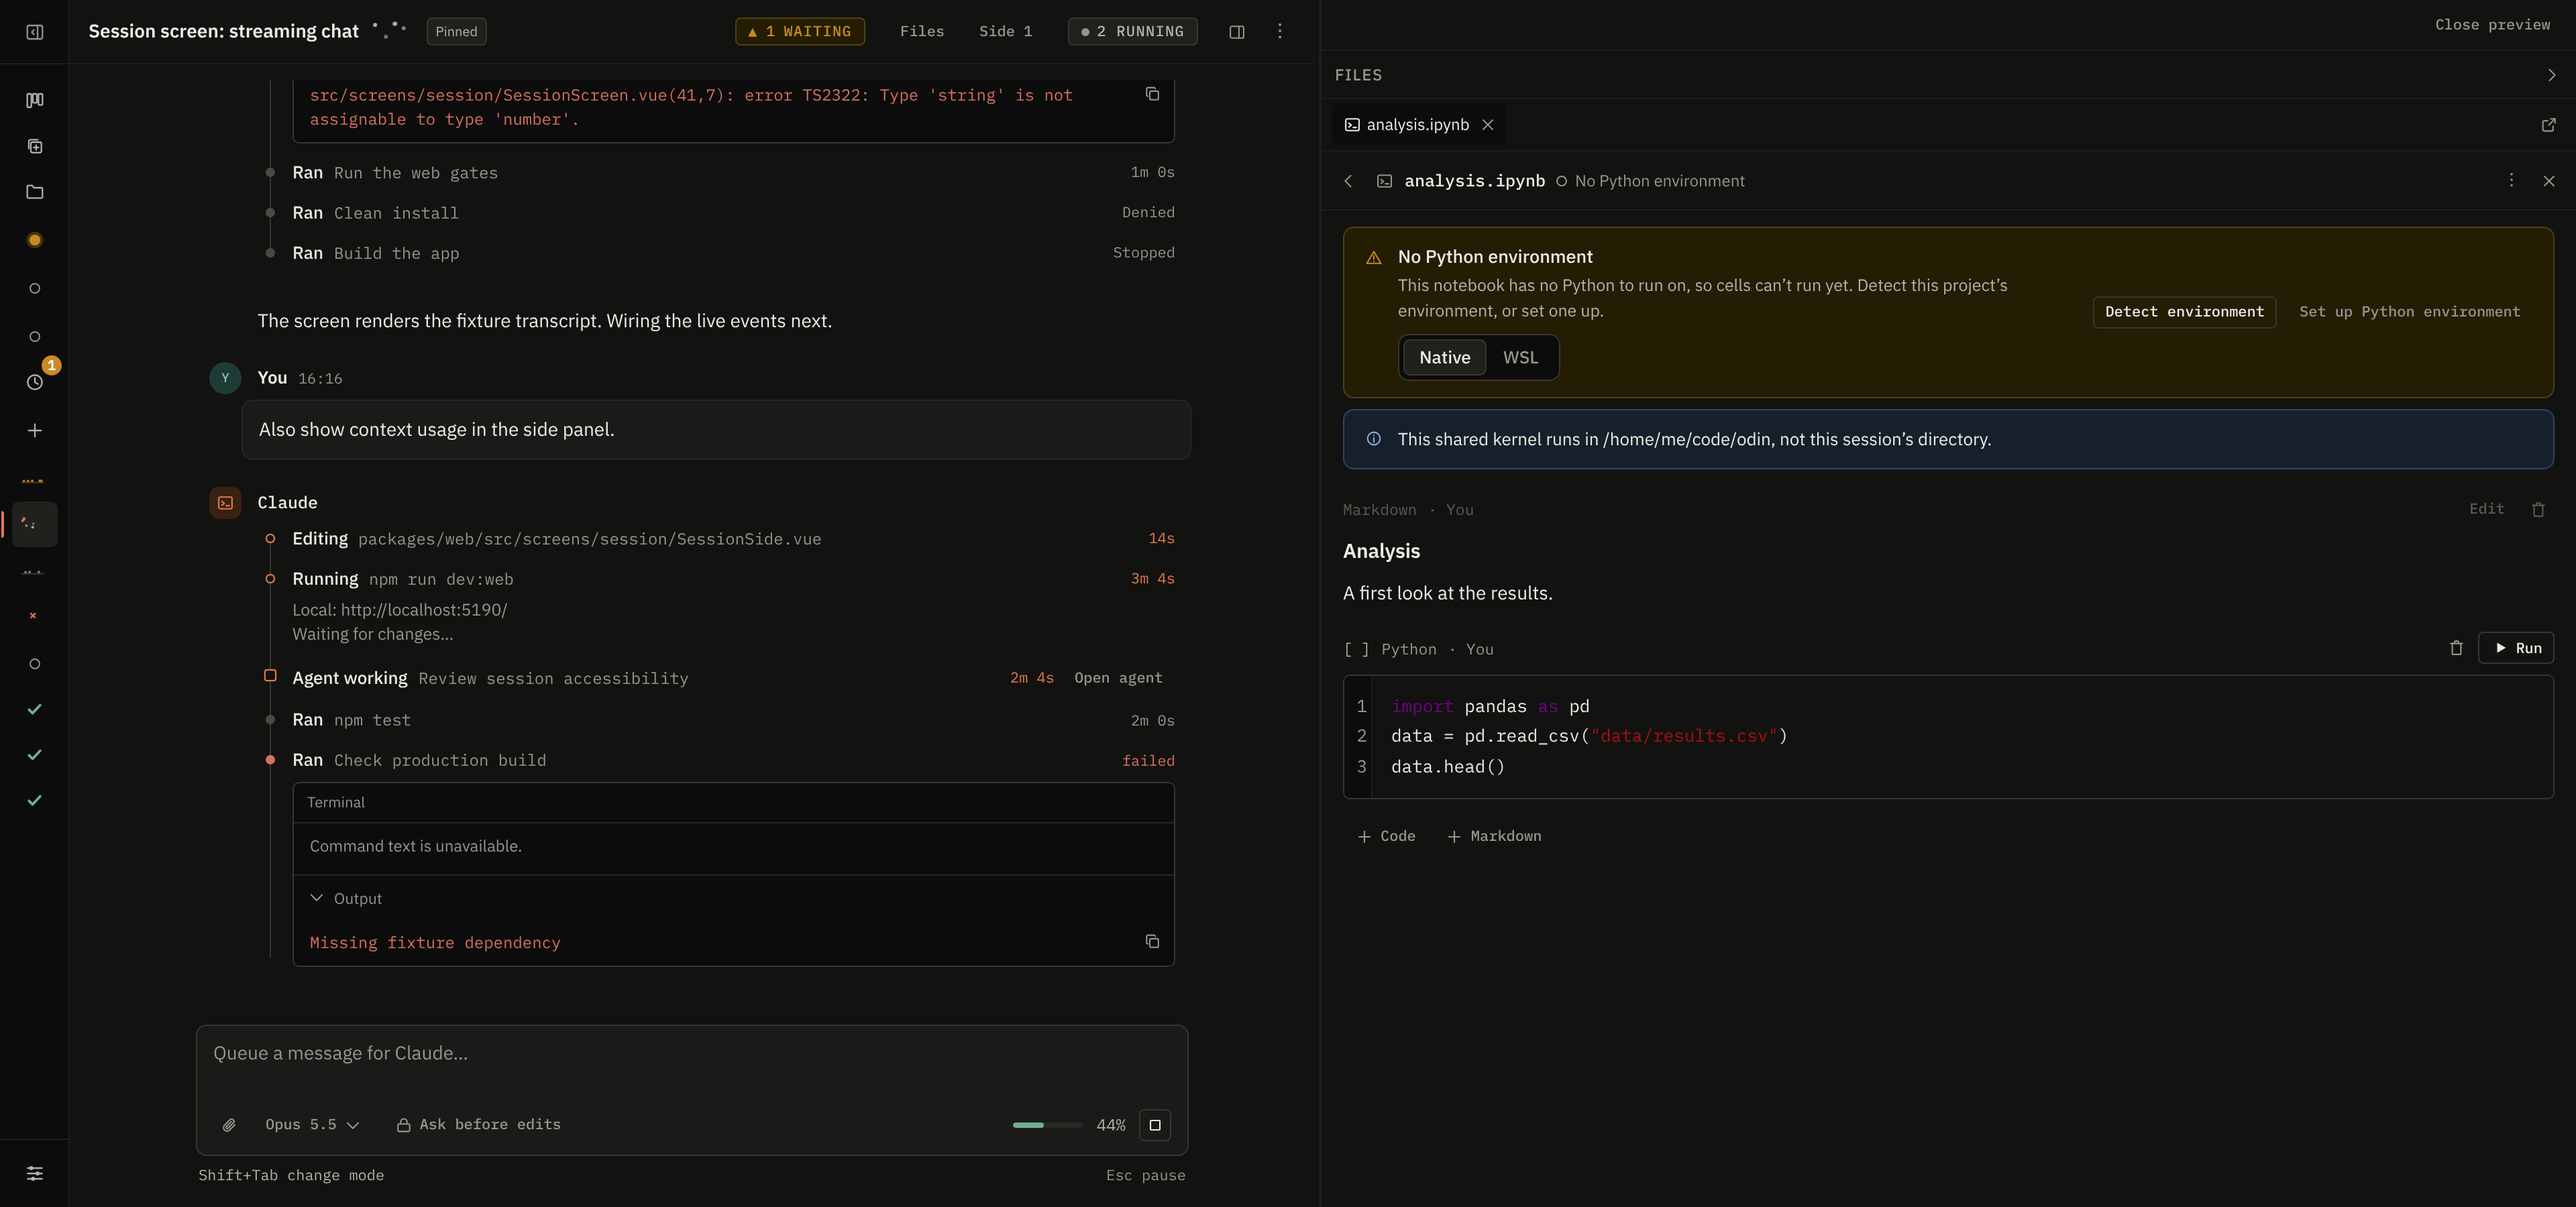
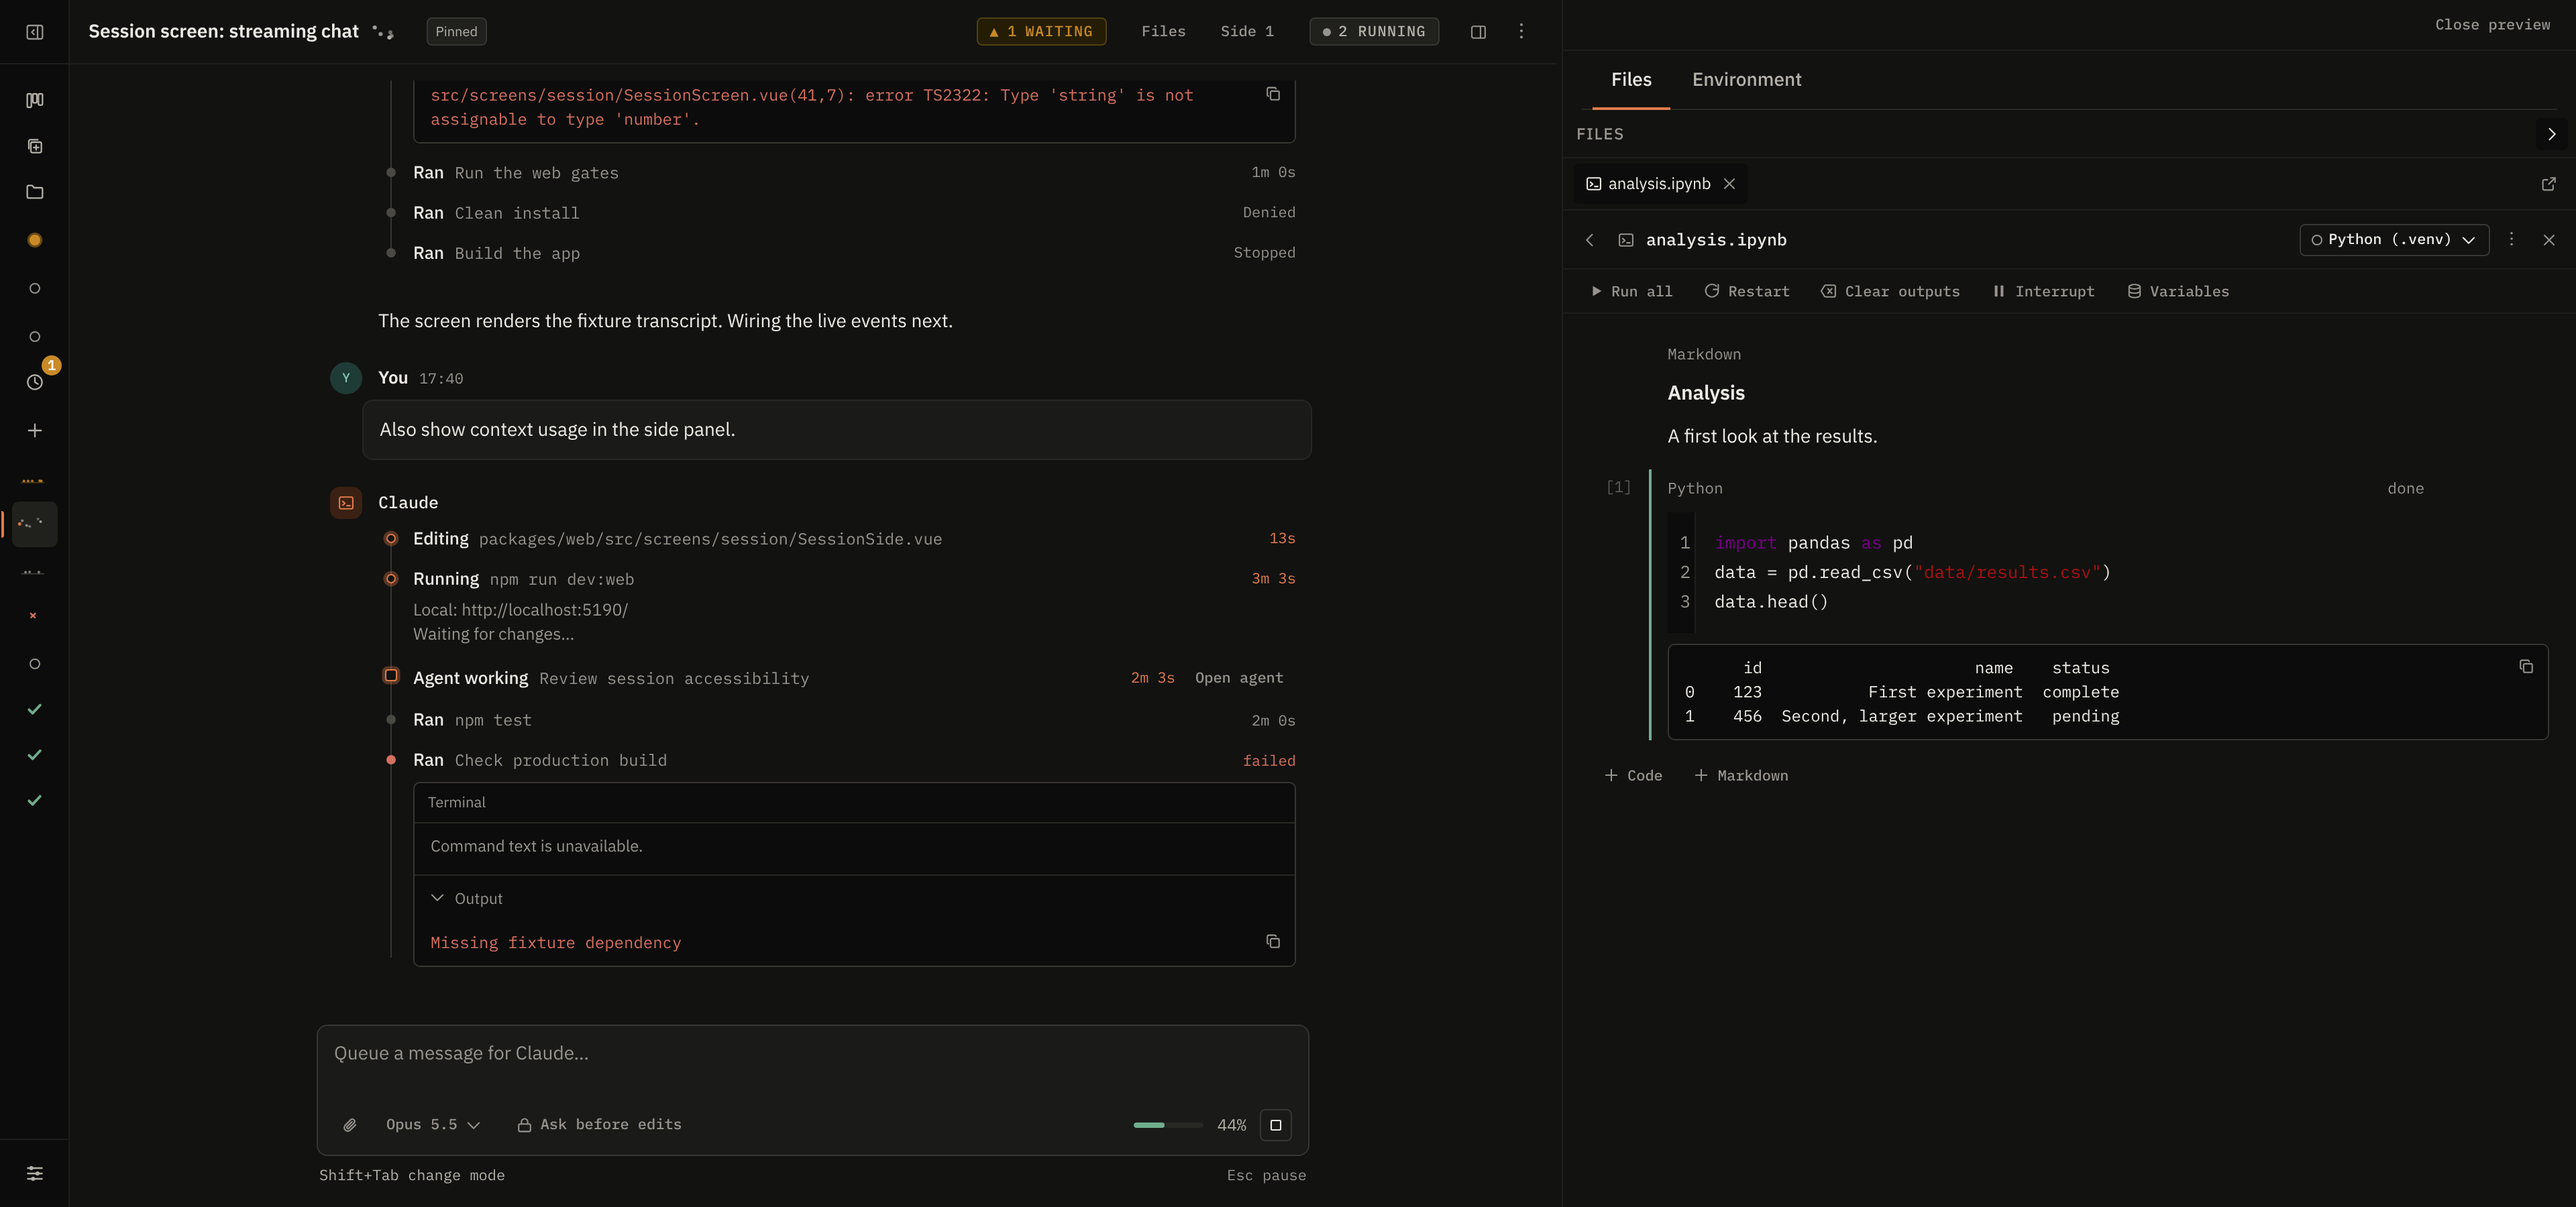
docs: refresh the notebook screenshot and Jupyter section
Claude-Session: https://claude.ai/code/session_01VqNoFf3AGGeiCRDUFtGqSH

diff --git a/README.md b/README.md
@@ -48,12 +48,11 @@ Odin adds the parts those tools don't have:
 
 ## Jupyter support
 
-Notebooks are ordinary `.ipynb` files in the project. Open one from a session's Files tab to read its cells and
-outputs, edit and save them, or create a new notebook from the New menu. Running a cell starts a Python kernel for
-that notebook on first use, in the environment you choose: detect the project's Python, or set one up natively or
-in WSL. Opening a notebook starts nothing.
+Open, edit and run Jupyter notebooks (`.ipynb` files) right inside a session. Open one from the Files tab, or create a
+new notebook from the New menu. Odin detects your project's Python environment automatically; you can change it
+any time in the Environment tab.
 
-![A Jupyter notebook open in the session's preview beside the chat, with the Markdown and Python cells of analysis.ipynb](docs/assets/screenshots/session-notebook.png)
+![A notebook open beside the chat, with its kernel, toolbar, and Markdown and Python cells with output](docs/assets/screenshots/session-notebook.png)
 
 ## Quick start
 
